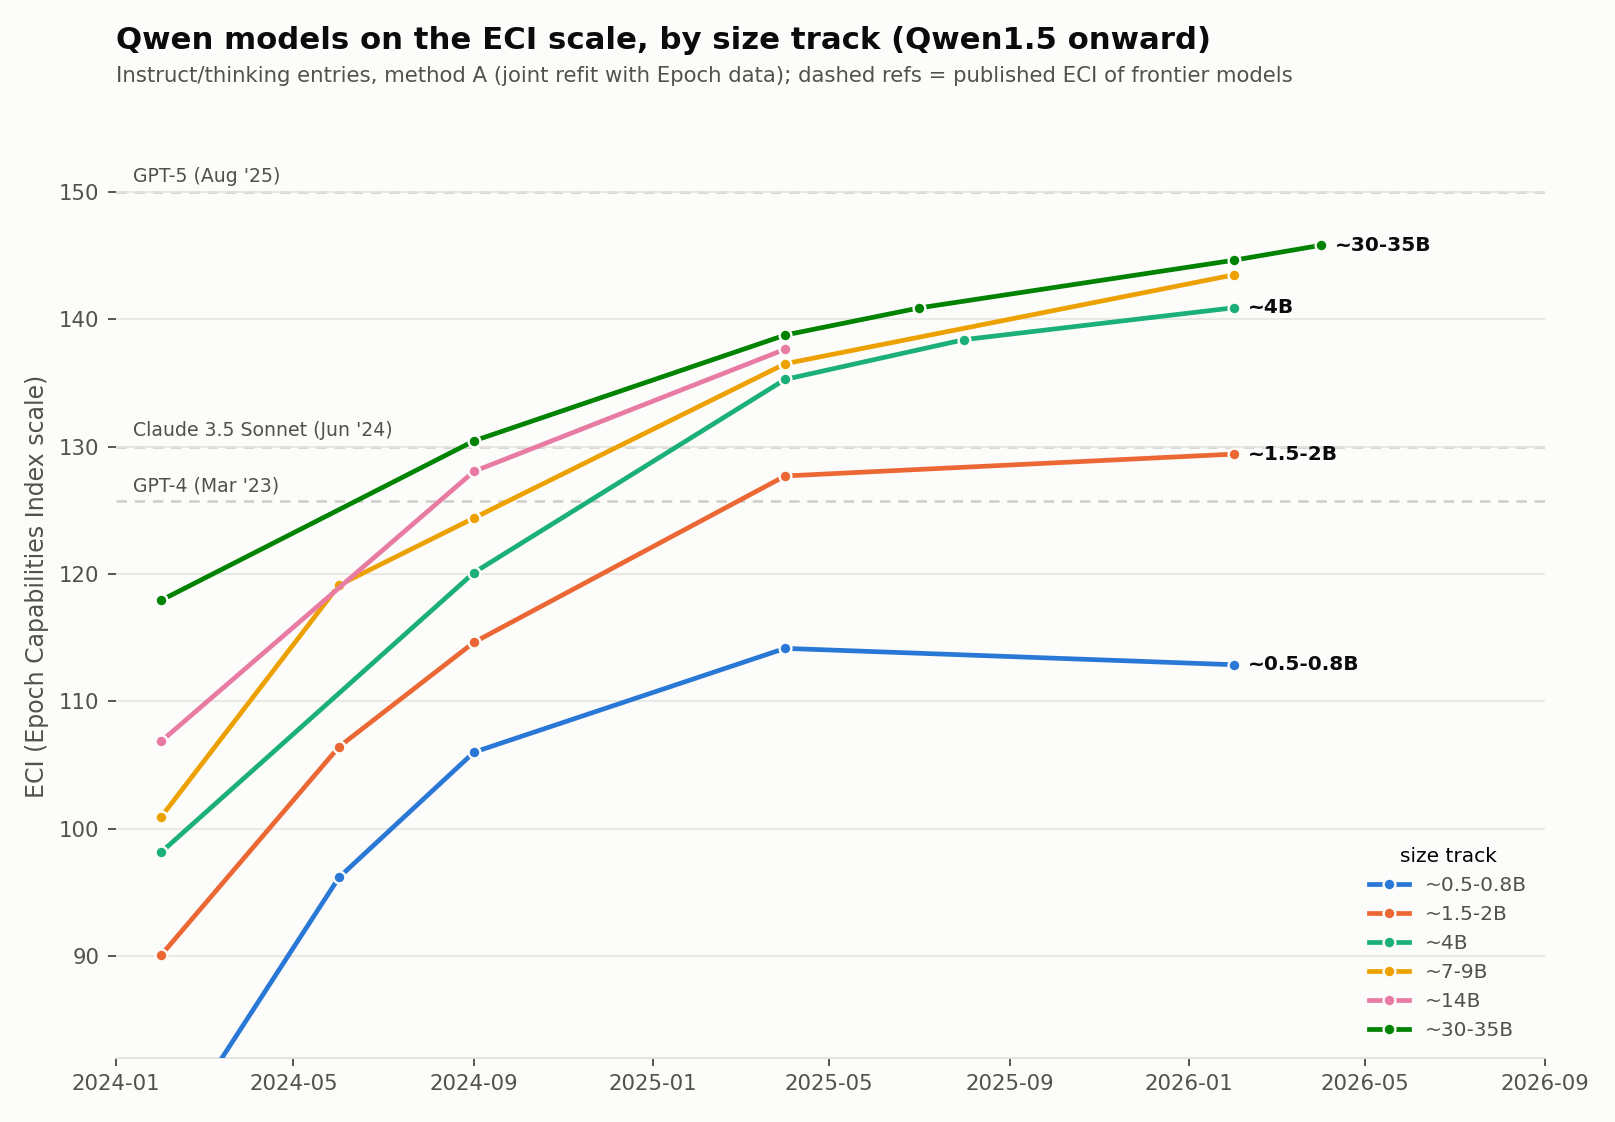
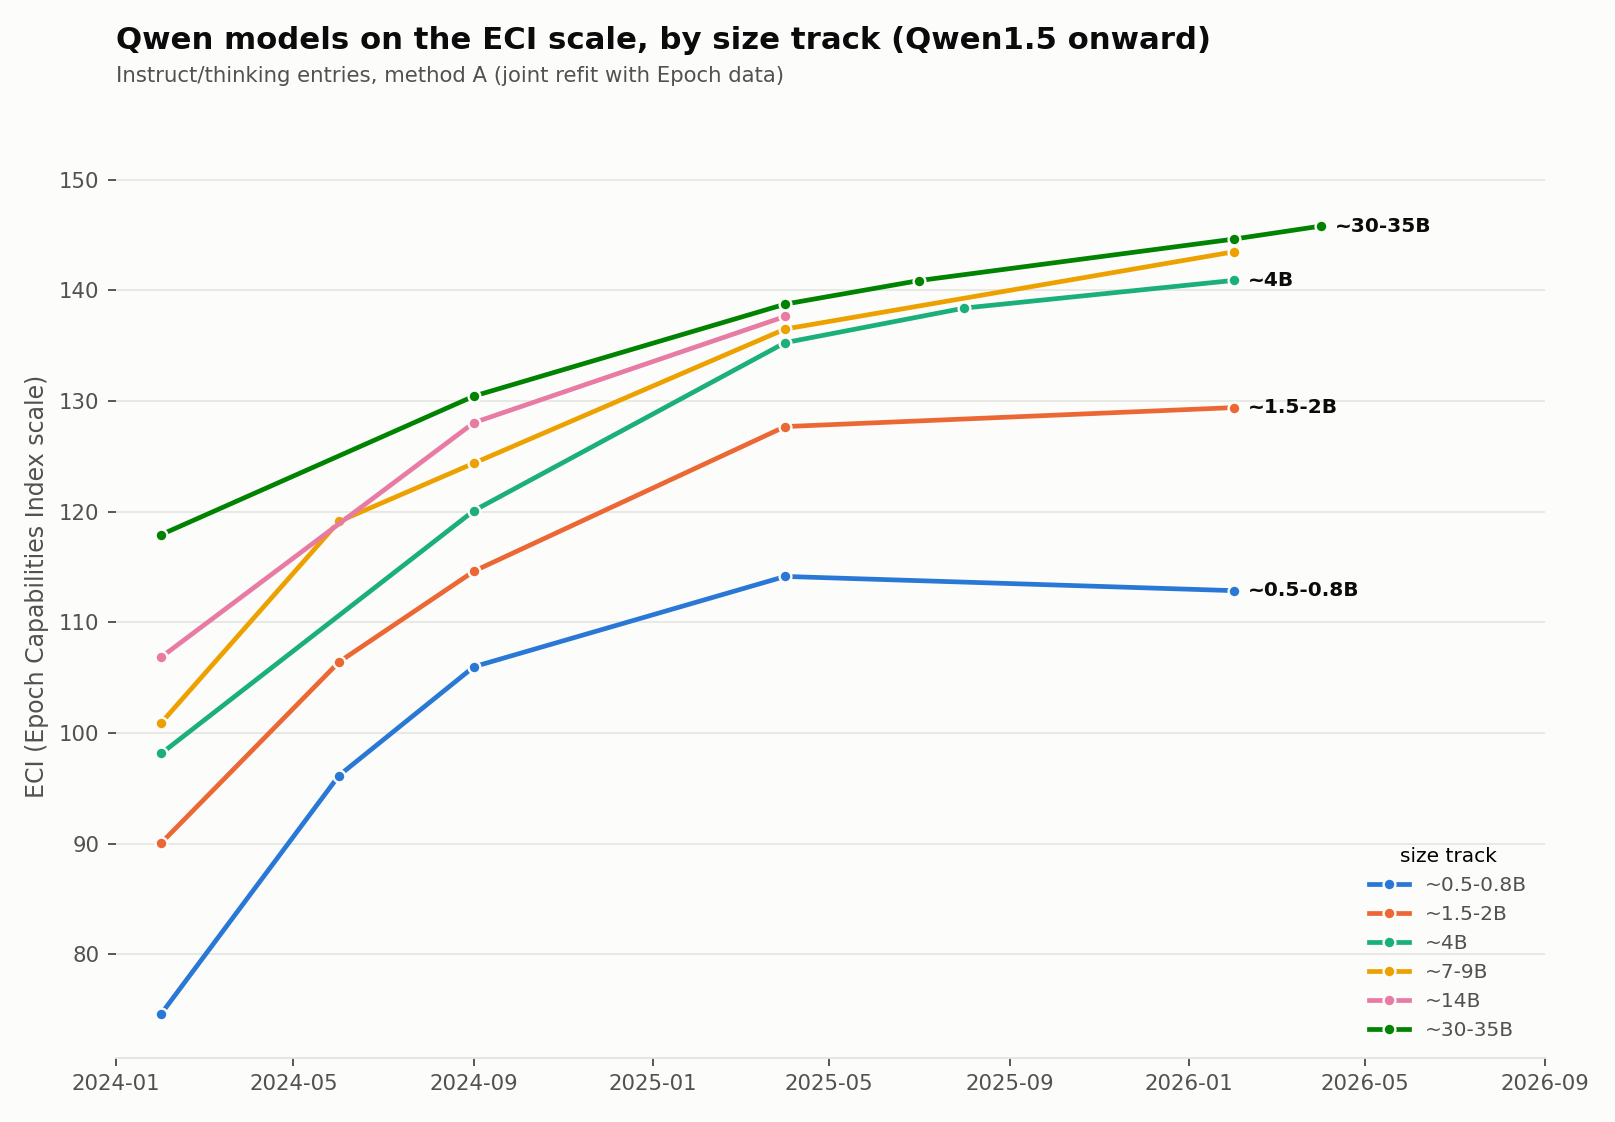
Drop frontier reference lines from the trajectory charts
Removes the GPT-4 / Claude 3.5 Sonnet / GPT-5 horizontal rules and their
labels from both trajectory charts, and the subtitle text that referred to
them. The now-unused transforms import goes with them.

Also fixes a clipped data point found while re-rendering: YLIM was hardcoded
to (82, 156) from before the Epoch refresh, which pushed the smallest entries
down -- Qwen1.5-0.5B-Chat sits at 74.7 and was being drawn off the bottom of
both charts. Both now derive the limits from the plotted values.

diff --git a/scripts/mk_charts.py b/scripts/mk_charts.py
@@ -5,7 +5,6 @@ import matplotlib
 matplotlib.use("Agg")
 import matplotlib.pyplot as plt
 import matplotlib.dates as mdates
-from matplotlib import transforms
 
 SURF, INK, INK2, GRID = "#fcfcfb", "#0b0b0b", "#52514e", "#e5e4e0"
 C = ["#2a78d6", "#eb6834", "#1baf7a", "#eda100", "#e87ba4", "#008300"]
@@ -42,8 +41,12 @@ TRACKS_G = {
     "~27-31B": ["Gemma 2 27B IT [Instruction-tuned (IT)]", "Gemma 3 27B IT [Instruction-tuned (IT)]",
                 "Gemma 4 31B [IT, Thinking mode]"],
 }
-REFS = [("GPT-4 (Mar '23)", 125.7), ("Claude 3.5 Sonnet (Jun '24)", 130.0), ("GPT-5 (Aug '25)", 150.0)]
-YLIM = (82, 156)
+# Derived from the data, not hardcoded: the Epoch refresh pushed the smallest
+# entries down (Qwen1.5-0.5B-Chat to 74.7) and a fixed floor silently clipped
+# them off the bottom of the plot.
+_plotted = [float(rr.loc[e, "eci_A"]) for t in (TRACKS_Q, TRACKS_G)
+            for es in t.values() for e in es if e in rr.index]
+YLIM = (min(_plotted) - 4, max(_plotted) + 10)
 
 fig, axes = plt.subplots(1, 2, figsize=(13, 6.4), facecolor=SURF)
 DIRECT_Q = {"~0.5-0.8B", "~4B", "~7-9B", "~30-35B"}
@@ -51,10 +54,6 @@ for ax, tracks, title, direct in ((axes[0], TRACKS_Q, "Qwen", DIRECT_Q),
                                   (axes[1], TRACKS_G, "Gemma (IT)", set(TRACKS_G))):
     ax.set_facecolor(SURF)
     ax.set_ylim(*YLIM)
-    blend = transforms.blended_transform_factory(ax.transAxes, ax.transData)
-    for lbl, y in REFS:
-        ax.axhline(y, color="#cfcec9", lw=1.1, ls=(0, (4, 3)), zorder=1)
-        ax.text(0.012, y + 0.8, lbl, transform=blend, fontsize=7.5, color=INK2, zorder=2)
     for i, (name, entries) in enumerate(tracks.items()):
         pts = sorted((rr.loc[e, "date"], float(rr.loc[e, "eci_A"])) for e in entries if e in rr.index)
         xs, ys = zip(*pts)
@@ -76,7 +75,7 @@ for ax, tracks, title, direct in ((axes[0], TRACKS_Q, "Qwen", DIRECT_Q),
 axes[0].set_ylabel("ECI (Epoch Capabilities Index scale)", color=INK2, fontsize=9.5)
 fig.suptitle("Small Qwen & Gemma models on the ECI scale (method A: joint refit with Epoch data)",
              color=INK, fontsize=13, x=0.02, ha="left", fontweight="bold", y=0.99)
-fig.text(0.02, 0.925, "Instruct/thinking entries; dashed refs = published ECI of frontier models",
+fig.text(0.02, 0.925, "Instruct/thinking entries",
          color=INK2, fontsize=9)
 fig.tight_layout(rect=(0, 0, 1, 0.91))
 fig.savefig("eci_trajectories.png", dpi=170, facecolor=SURF)

diff --git a/scripts/mk_chart_qwen.py b/scripts/mk_chart_qwen.py
@@ -5,7 +5,6 @@ import matplotlib
 matplotlib.use("Agg")
 import matplotlib.pyplot as plt
 import matplotlib.dates as mdates
-from matplotlib import transforms
 
 SURF, INK, INK2, GRID = "#fcfcfb", "#0b0b0b", "#52514e", "#e5e4e0"
 C = ["#2a78d6", "#eb6834", "#1baf7a", "#eda100", "#e87ba4", "#008300"]
@@ -33,15 +32,13 @@ TRACKS = {
                 "Qwen3-32B [Thinking mode]", "Qwen3-30B-A3B-Thinking-2507 [Thinking]",
                 "Qwen3.5-35B-A3B [Thinking (default)]", "Qwen3.6-35B-A3B [Thinking (default)]"],
 }
-REFS = [("GPT-4 (Mar '23)", 125.7), ("Claude 3.5 Sonnet (Jun '24)", 130.0), ("GPT-5 (Aug '25)", 150.0)]
 
 fig, ax = plt.subplots(figsize=(9.5, 6.6), facecolor=SURF)
 ax.set_facecolor(SURF)
-ax.set_ylim(82, 156)
-blend = transforms.blended_transform_factory(ax.transAxes, ax.transData)
-for lbl, y in REFS:
-    ax.axhline(y, color="#cfcec9", lw=1.1, ls=(0, (4, 3)), zorder=1)
-    ax.text(0.012, y + 0.8, lbl, transform=blend, fontsize=8, color=INK2, zorder=2)
+# derived from the data: a hardcoded floor clipped the smallest entries off the
+# bottom once the Epoch refresh pushed them down
+_plotted = [float(rr.loc[e, "eci_A"]) for es in TRACKS.values() for e in es if e in rr.index]
+ax.set_ylim(min(_plotted) - 4, max(_plotted) + 10)
 DIRECT = {"~0.5-0.8B", "~1.5-2B", "~4B", "~30-35B"}
 for i, (name, entries) in enumerate(TRACKS.items()):
     pts = sorted((rr.loc[e, "date"], float(rr.loc[e, "eci_A"])) for e in entries if e in rr.index)
@@ -63,9 +60,8 @@ ax.legend(loc="lower right", fontsize=8.5, frameon=False, labelcolor=INK2,
           title="size track", title_fontsize=8.5)
 ax.set_title("Qwen models on the ECI scale, by size track (Qwen1.5 onward)",
              color=INK, fontsize=13, loc="left", fontweight="bold", pad=28)
-ax.text(0, 1.035, "Instruct/thinking entries, method A (joint refit with Epoch data); "
-        "dashed refs = published ECI of frontier models", transform=ax.transAxes,
-        color=INK2, fontsize=9)
+ax.text(0, 1.035, "Instruct/thinking entries, method A (joint refit with Epoch data)",
+        transform=ax.transAxes, color=INK2, fontsize=9)
 fig.tight_layout()
 fig.savefig("eci_trajectories_qwen.png", dpi=170, facecolor=SURF)
 print("saved")
